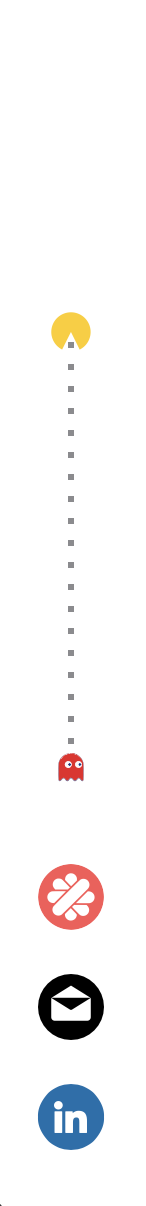
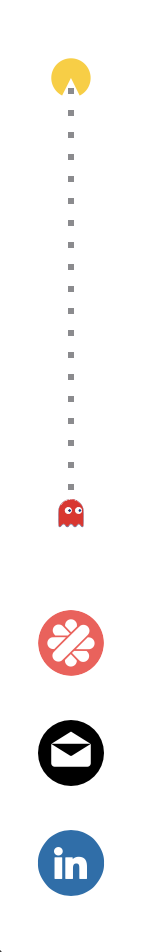
sidebar styled

Changed region(s): [[0.2466, 0.0609, 0.7123, 0.9748]]

diff --git a/components/index.html b/components/index.html
@@ -73,19 +73,45 @@
 				</div>
 				<nav class="page-header__nav">
 					<ul class="nav__list">
-						<li class="menu__item">
+						<li class="nav__item">
 						  <a href="#!" title="Visit my work">Portfolio</a>
 						</li>
-						<li class="menu__item">
+						<li class="nav__item">
 						  <a href="#!" title="About me">&Agrave; propos</a>
 						</li>
-						<li class="menu__item menu__item--active">
+						<li class="nav__item nav__item--active">
 						  <a href="#!" title="Write to me">Contact</a>
 						</li>
 					</ul>
 				</nav>
 			</div>
 		</header>
+	</article>
+
+	<article class="component clearfix">
+		<h3 class="component__name">Sidebar</h3>
+		<div class="component__image two-col">
+			<img
+				srcset="img/side-navigation.png 2x" 
+				src="img/side-navigation.png" alt="side navigation bar">
+		</div>
+		<div class="component__code two-col">
+			<div class="side-navigation">
+				<img class="side-navigation__image" src="img/side-navigation__image.png" alt="pac man animation">
+				<nav class="social-media">
+					<ul class="social-media__list">
+						<li class="social-media__item">
+						  <a href="#!" title="Visit my work"><img src="img/malt-logo.svg" alt="image icon"></a>
+						</li>
+						<li class="social-media__item">
+						  <a href="#!" title="Send me a message"><img src="img/email-logo.svg" alt="image icon"></a>
+						</li>
+						<li class="social-media__item">
+						  <a class="" href="#!" title="Connect with LinkedIn"><img class="" src="img/linkedin-logo.svg" alt="image icon"></a>
+						</li>
+					</ul>
+				</nav>
+			</div>
 	</article>
 
 	<article class="component">

diff --git a/css/style.css b/css/style.css
@@ -75,16 +75,21 @@ ul {
   padding: 0;
 }
 
-li:first-child a {
+.nav__item:first-child a {
   border-left: 1px solid black;
 }
 
-li a {
+.nav__item a {
   padding: 1.9rem 2.2rem;
   border-right: 1px solid black;
   display; inline-block;
   font-size: 1.1rem;
   font-weight: 500;
+}
+
+.nav__item a:hover {
+  -ms-transform: rotate(20deg); /* IE 9 */
+  transform: rotate(20deg);
 }
 
 a {
@@ -114,8 +119,44 @@ a {
   padding-left: .5rem;
 }
 
-.menu__item--active a {
+.nav__item--active a {
   background: var(--brand-yellow);
+}
+
+.clearfix {
+  overflow: auto;
+}
+
+.two-col {
+  float: left;
+  width: 50%;
+}
+
+.side-navigation__image {
+  height: 250px;
+}
+
+.social-media__list {
+  display: flex;
+  flex-direction: column;
+  padding-left: .5em;
+}
+
+.social-media__item {
+  /*background: black;*/
+  line-height: 1;
+}
+
+.social-media__item img {
+  width: 35px;
+}
+
+.social-media__item a {
+  padding: 1px;
+}
+
+main p {
+  margin-bottom: 20px;
 }
 
 .button {
@@ -128,9 +169,8 @@ a {
 }
 
 .main__image-snoopy {
-  position: absolute;
-  top: 2750px;
-  right: 700px;
+  position: relative;
+  left: 600px;
   width: 150px;
 }
 
